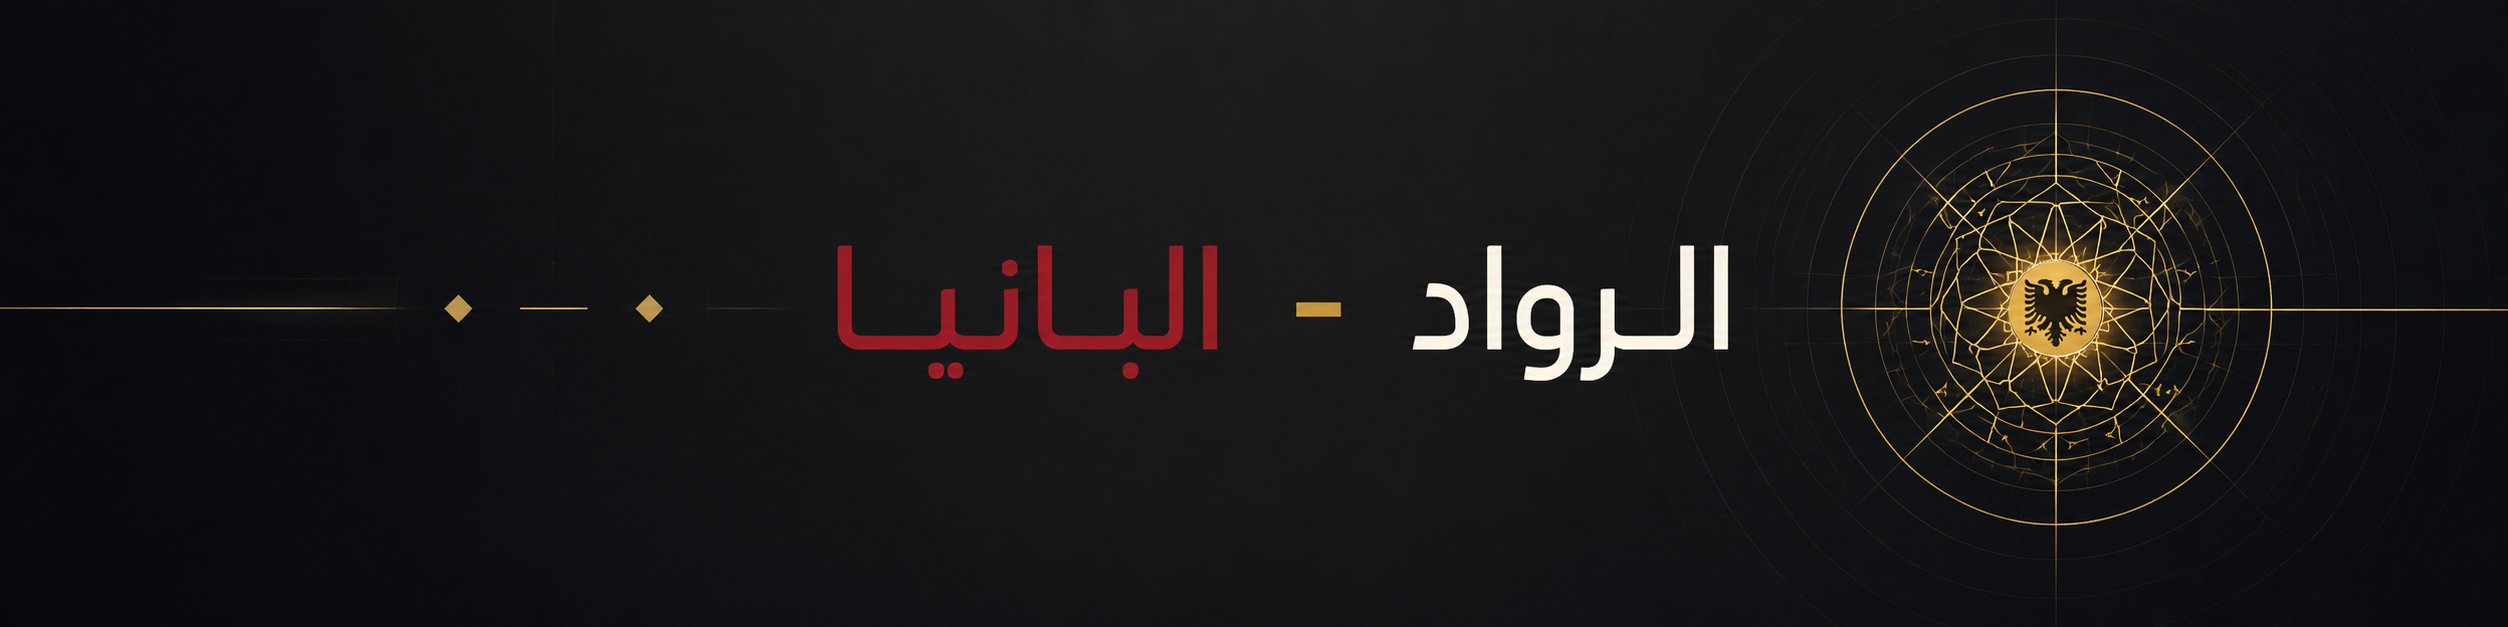
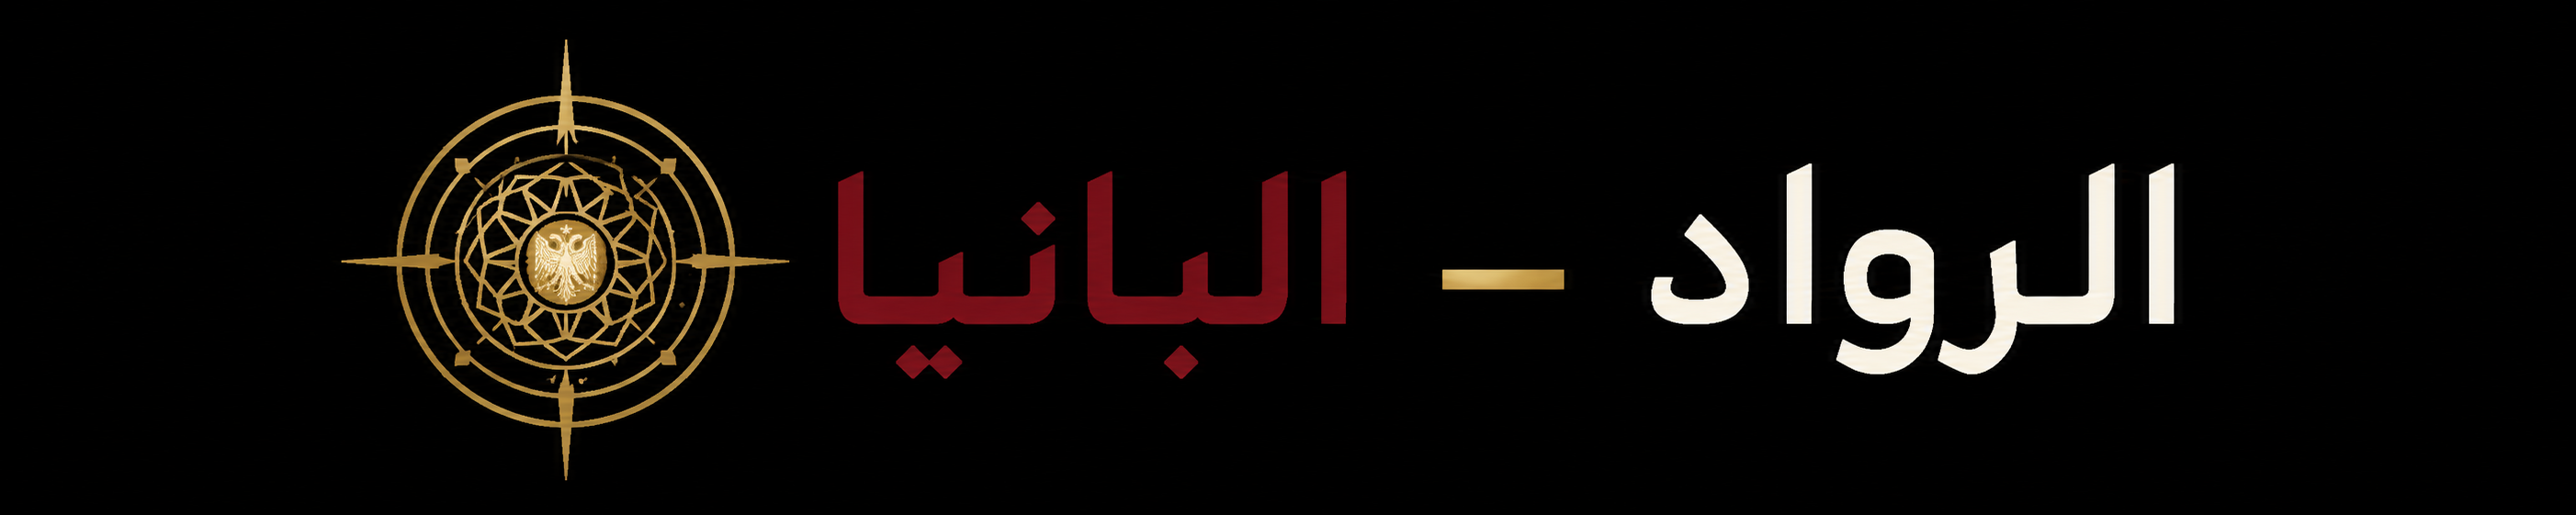
.

diff --git a/src/app/student/layout.tsx b/src/app/student/layout.tsx
@@ -270,7 +270,7 @@ export default function StudentLayout({ children }: { children: React.ReactNode 
             src="/ahlia.png"
             alt="بناء الأهلية"
             fill
-            style={{ objectFit: "cover", objectPosition: "center" }}
+            style={{ objectFit: "contain", objectPosition: "center" }}
             priority
           />
           <button className="sl-close-btn" onClick={() => setSidebarOpen(false)} aria-label="إغلاق">
@@ -455,7 +455,7 @@ export default function StudentLayout({ children }: { children: React.ReactNode 
         </header>
 
         {/* Page content */}
-        <main className="sl-content">
+        <main className={`sl-content${pathname === "/student/hub" ? " sl-content--hub" : ""}`}>
           <div className="sl-watermark" aria-hidden="true">
             <Mandala size={260} stroke="var(--sl-graphite)" />
           </div>
@@ -604,7 +604,8 @@ const styles = `
   /* Logo */
   .sl-logo-block {
     position: relative; z-index: 10; flex-shrink: 0;
-    width: 100%; height: 100px; overflow: hidden;
+    width: 100%; height: 80px; overflow: hidden;
+    background: #080B0C;
   }
   .sl-close-btn {
     display: none; align-items: center; justify-content: center;
@@ -790,7 +791,9 @@ const styles = `
   .sl-topbar-name    { font-size: 12.5px; font-weight: 700; color: var(--sl-graphite); white-space: nowrap; padding-inline-start: 2px; }
 
   /* Content */
-  .sl-content { position: relative; flex: 1; padding: 0; animation: sl-slidein 0.42s var(--sl-ease-out); }
+  .sl-content { position: relative; flex: 1; padding: 28px 20px; animation: sl-slidein 0.42s var(--sl-ease-out); }
+  @media (min-width: 768px) { .sl-content { padding: 40px; } }
+  .sl-content--hub { padding: 0 !important; }
   .sl-watermark     { position: absolute; left: 24px; top: 24px; opacity: 0.04; pointer-events: none; }
   .sl-content-inner { position: relative; z-index: 10; height: 100%; }
 
@@ -814,6 +817,9 @@ const styles = `
     /* Content padding for tab bar + safe area */
     .sl-content {
       padding-bottom: calc(env(safe-area-inset-bottom, 0px) + 72px);
+    }
+    .sl-content--hub {
+      padding: 0 0 calc(env(safe-area-inset-bottom, 0px) + 72px) !important;
     }
     /* Hide decorative bottom band on mobile (tab bar replaces it) */
     .sl-bottom-band { display: none; }

diff --git a/src/app/teacher/layout.tsx b/src/app/teacher/layout.tsx
@@ -192,7 +192,7 @@ export default function TeacherLayout({ children }: Readonly<{ children: React.R
             src="/ahlia.png"
             alt="بناء الأهلية"
             fill
-            style={{ objectFit: "cover", objectPosition: "center" }}
+            style={{ objectFit: "contain", objectPosition: "center" }}
             priority
           />
           <button
@@ -391,7 +391,7 @@ export default function TeacherLayout({ children }: Readonly<{ children: React.R
         </header>
 
         {/* Page content */}
-        <main className="tl-content">
+        <main className={`tl-content${pathname === "/teacher/hub" ? " tl-content--hub" : ""}`}>
           <div className="tl-watermark" aria-hidden="true">
             <Mandala size={260} stroke="var(--tl-graphite)" />
           </div>
@@ -538,7 +538,8 @@ const styles = `
   /* Logo */
   .tl-logo-block {
     position: relative; z-index: 10; flex-shrink: 0;
-    width: 100%; height: 100px; overflow: hidden;
+    width: 100%; height: 80px; overflow: hidden;
+    background: #080B0C;
   }
   .tl-close-btn {
     display: none; align-items: center; justify-content: center;
@@ -724,7 +725,9 @@ const styles = `
   .tl-topbar-name    { font-size: 12.5px; font-weight: 700; color: var(--tl-graphite); white-space: nowrap; padding-inline-start: 2px; }
 
   /* Content */
-  .tl-content { position: relative; flex: 1; padding: 0; animation: tl-slidein 0.42s var(--tl-ease-out); }
+  .tl-content { position: relative; flex: 1; padding: 28px 20px; animation: tl-slidein 0.42s var(--tl-ease-out); }
+  @media (min-width: 768px) { .tl-content { padding: 40px; } }
+  .tl-content--hub { padding: 0 !important; }
   .tl-watermark    { position: absolute; left: 24px; top: 24px; opacity: 0.04; pointer-events: none; }
   .tl-content-inner { position: relative; z-index: 10; }
 
@@ -748,6 +751,9 @@ const styles = `
     /* Content padding for tab bar + safe area */
     .tl-content {
       padding-bottom: calc(env(safe-area-inset-bottom, 0px) + 84px);
+    }
+    .tl-content--hub {
+      padding: 0 0 calc(env(safe-area-inset-bottom, 0px) + 84px) !important;
     }
     /* Hide decorative footer on mobile */
     .tl-bottom-band { display: none; }

diff --git a/src/app/school-admin/layout.tsx b/src/app/school-admin/layout.tsx
@@ -273,7 +273,7 @@ export default function SchoolAdminLayout({ children }: { children: React.ReactN
             src="/ahlia.png"
             alt="بناء الأهلية"
             fill
-            style={{ objectFit: "cover", objectPosition: "center" }}
+            style={{ objectFit: "contain", objectPosition: "center" }}
             priority
           />
           <button
@@ -472,7 +472,7 @@ export default function SchoolAdminLayout({ children }: { children: React.ReactN
         </header>
 
         {/* Page content */}
-        <main className="sa-content">
+        <main className={`sa-content${pathname === "/school-admin/hub" ? " sa-content--hub" : ""}`}>
           <div className="sa-watermark" aria-hidden="true">
             <Mandala size={260} stroke="var(--sa-graphite)" />
           </div>
@@ -588,7 +588,8 @@ const styles = `
   /* Logo */
   .sa-logo-block {
     position: relative; z-index: 10; flex-shrink: 0;
-    width: 100%; height: 100px; overflow: hidden;
+    width: 100%; height: 80px; overflow: hidden;
+    background: #080B0C;
   }
   .sa-close-btn {
     display: none; align-items: center; justify-content: center;
@@ -773,7 +774,9 @@ const styles = `
   .sa-topbar-name    { font-size: 12.5px; font-weight: 700; color: var(--sa-graphite); white-space: nowrap; padding-inline-start: 2px; }
 
   /* Content */
-  .sa-content { position: relative; flex: 1; padding: 0; animation: sa-slidein 0.42s var(--sa-ease-out); }
+  .sa-content { position: relative; flex: 1; padding: 28px 20px; animation: sa-slidein 0.42s var(--sa-ease-out); }
+  @media (min-width: 768px) { .sa-content { padding: 40px; } }
+  .sa-content--hub { padding: 0 !important; }
   .sa-watermark    { position: absolute; left: 24px; top: 24px; opacity: 0.04; pointer-events: none; }
   .sa-content-inner { position: relative; z-index: 10; }
 